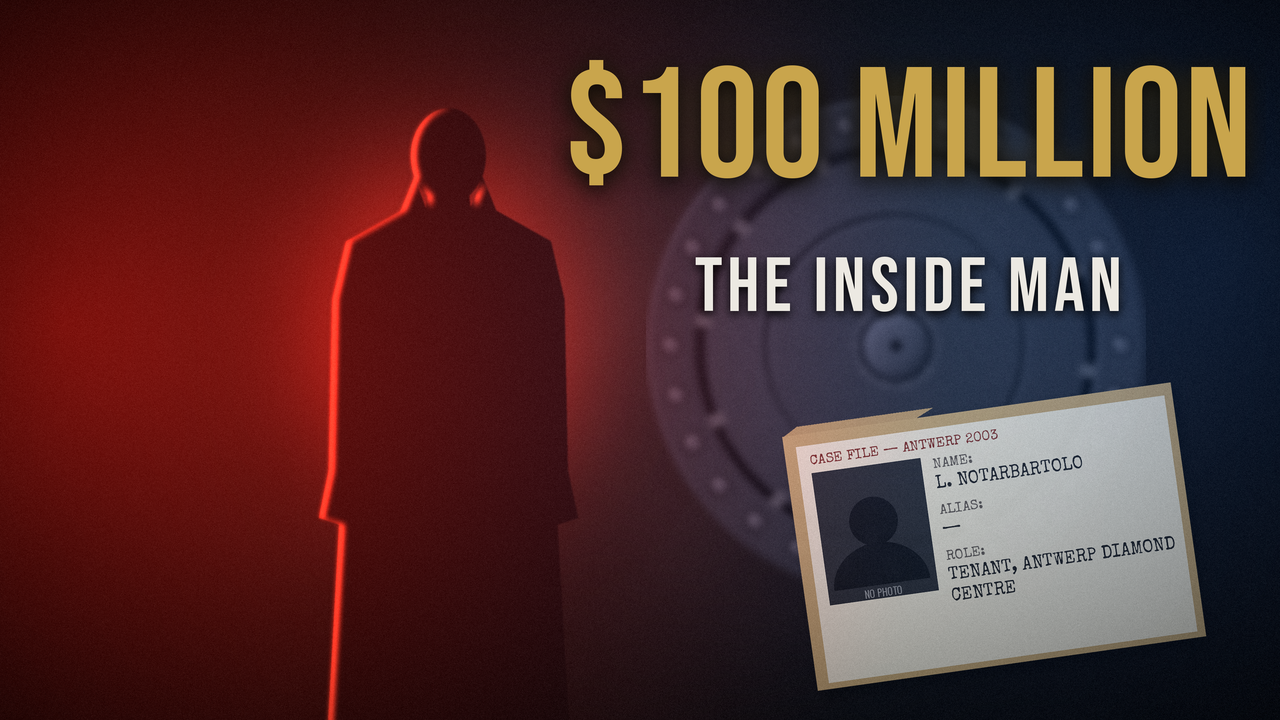
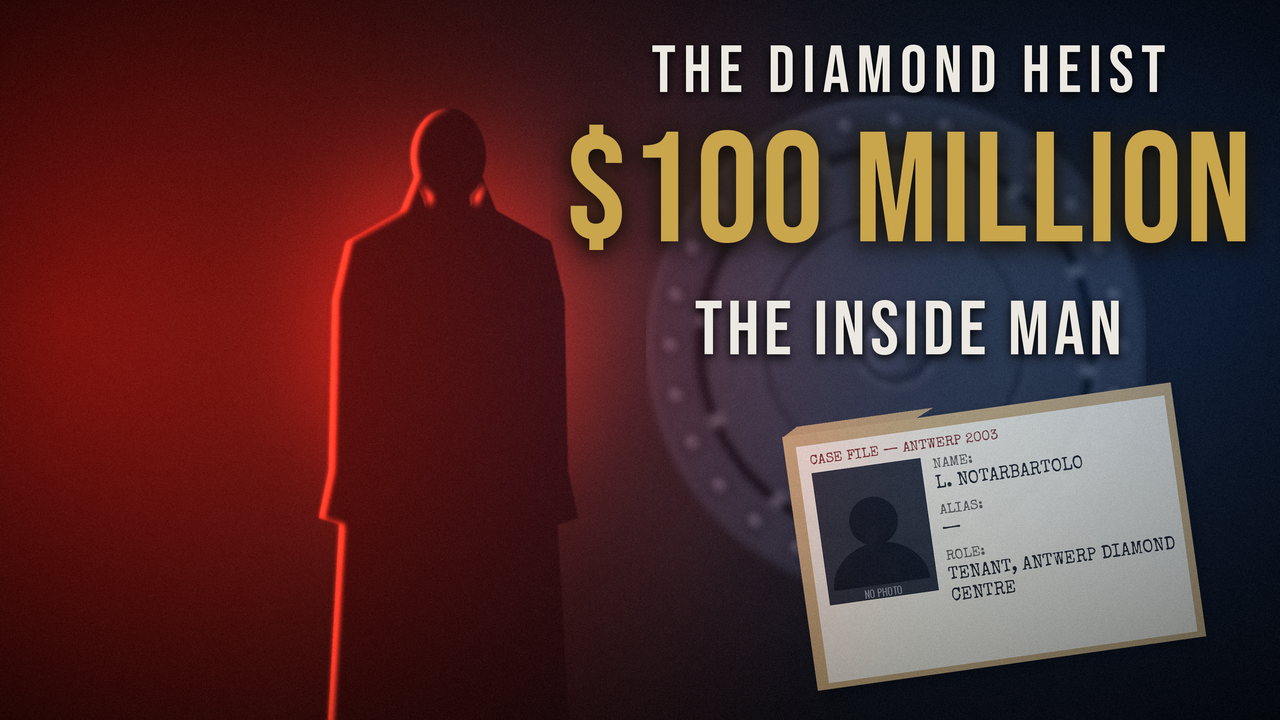
Move 'THE DIAMOND HEIST' headline to alternative thumbnail A; restore B
Claude-Session: https://claude.ai/code/session_01E5Mjn7bpWzLNxZwAD9kq1G

Changed region(s): [[0.4375, 0.0611, 1.0, 0.5194]]

diff --git a/WAR_FILES_ANTWERP_HEIST/project/src/thumbs.py b/WAR_FILES_ANTWERP_HEIST/project/src/thumbs.py
@@ -103,8 +103,9 @@ def concept_B():
     card = card.resize((int(card.size[0] * 1.2), int(card.size[1] * 1.2)))
     paste(cv, card, TW * 0.78, TH * 0.75, "cm", 0.92)
     cv = grade(cv, "left", 0.03)
-    paste(cv, glow(big_text("$100 MILLION", 470, GOLD, 8), 40, 0.5), TW * 0.71, TH * 0.18, "cm")
-    paste(cv, big_text("THE INSIDE MAN", 230, WHITE, 14), TW * 0.71, TH * 0.40, "cm")
+    paste(cv, big_text("THE DIAMOND HEIST", 200, WHITE, 22), TW * 0.71, TH * 0.10, "cm")
+    paste(cv, glow(big_text("$100 MILLION", 470, GOLD, 8), 40, 0.5), TW * 0.71, TH * 0.27, "cm")
+    paste(cv, big_text("THE INSIDE MAN", 230, WHITE, 14), TW * 0.71, TH * 0.46, "cm")
     return cv
 def concept_C():
     cv = Image.new("RGBA", (TW, TH), (14, 15, 18, 255))
@@ -121,7 +122,6 @@ def concept_C():
     cv = grade(cv, "right", 0.03)
     paste(cv, glow(big_text("$100,000,000", 580, GOLD, 8), 40, 0.55), TW * 0.5, TH * 0.38, "cm")
     paste(cv, big_text("STILL MISSING", 230, WHITE, 18), TW * 0.5, TH * 0.62, "cm")
-    paste(cv, big_text("THE DIAMOND HEIST", 250, WHITE, 26), TW * 0.5, TH * 0.15, "cm")
     return cv
 if __name__ == "__main__":
     for nm, fn in (("A", concept_A), ("B", concept_B), ("C", concept_C)):
